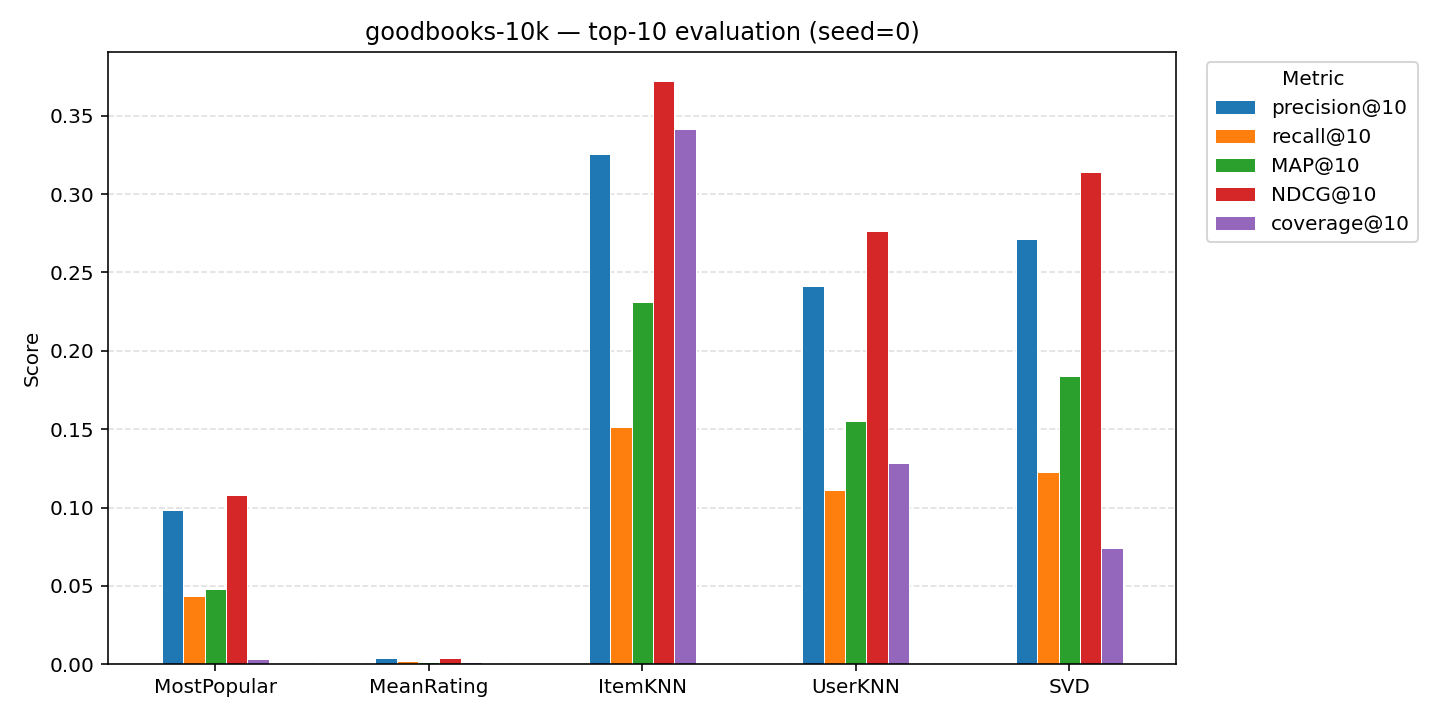
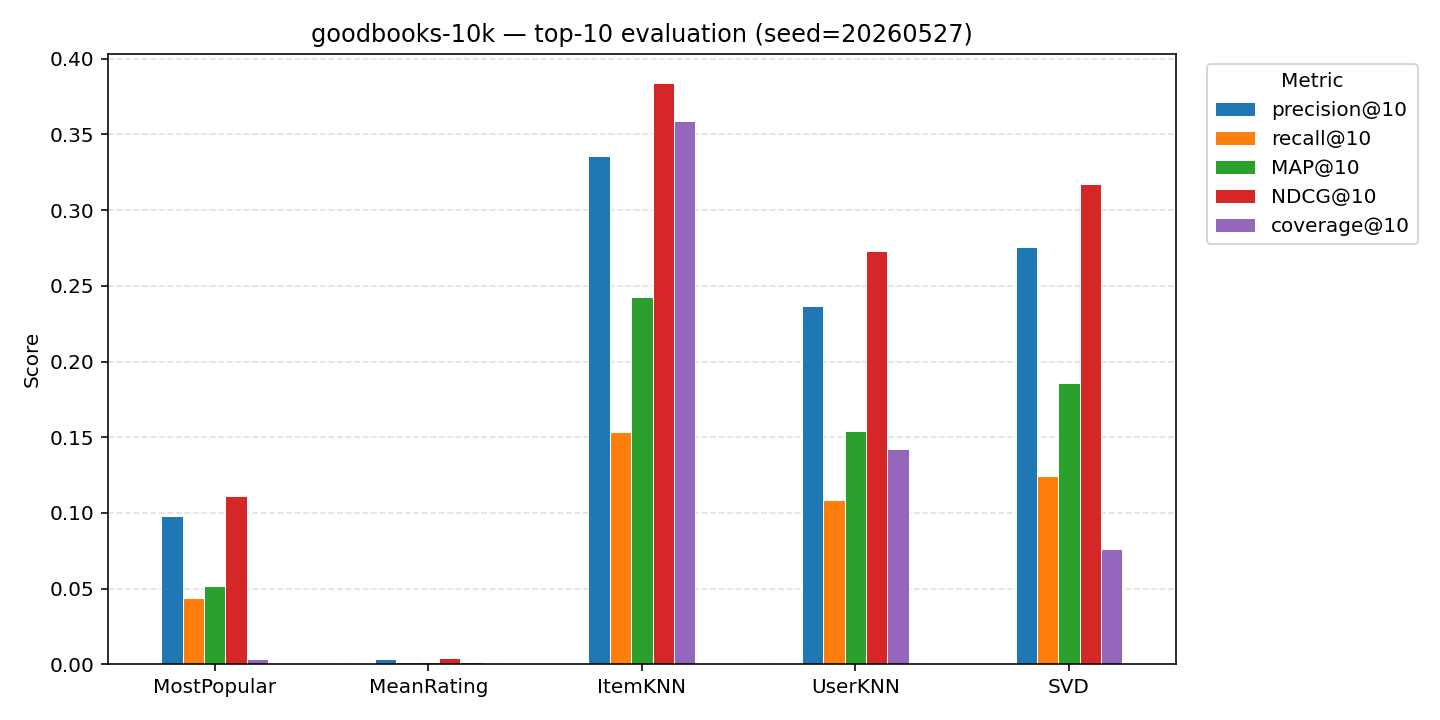
chore: use a deliberate benchmark seed and regenerate results
Bump the benchmark/example seed from 0 to 20260527 (the run date) across both benchmark scripts and the README/quickstart examples, and regenerate both results tables + charts so the committed numbers match the new seed. README tables verified equal to benchmarks/results.md and benchmarks/goodbooks_results.md.

diff --git a/scripts/benchmark_goodbooks.py b/scripts/benchmark_goodbooks.py
@@ -23,7 +23,7 @@ from recommender_systems import SVD, ItemKNN, MeanRating, MostPopular, Recommend
 from recommender_systems.datasets import load_goodbooks_10k
 from scripts._harness import run_benchmark
 
-SEED = 0
+SEED = 20260527
 USER_SAMPLE = 2500
 OUT_DIR = Path(__file__).resolve().parent.parent / "benchmarks"
 

diff --git a/scripts/benchmark.py b/scripts/benchmark.py
@@ -16,7 +16,7 @@ from recommender_systems import SVD, ItemKNN, MeanRating, MostPopular, Recommend
 from recommender_systems.datasets import load_movielens_100k
 from scripts._harness import run_benchmark
 
-SEED = 0
+SEED = 20260527
 OUT_DIR = Path(__file__).resolve().parent.parent / "benchmarks"
 
 

diff --git a/README.md b/README.md
@@ -21,11 +21,11 @@ Top-10 evaluation on **MovieLens 100k** (80/20 seeded split). Reproduce with
 
 |             | precision@10 | recall@10 |  MAP@10 | NDCG@10 | coverage@10 |
 |:------------|-------------:|----------:|--------:|--------:|------------:|
-| MostPopular |       0.1863 |    0.1191 |  0.1104 |  0.2141 |      0.0315 |
-| MeanRating  |       0.0490 |    0.0194 |  0.0140 |  0.0428 |      0.0161 |
-| ItemKNN     |       0.3188 |    0.2010 |  0.2486 |  0.3786 |      0.2866 |
-| UserKNN     |       0.3175 |    0.2123 |  0.2503 |  0.3881 |      0.2134 |
-| SVD         |       0.3016 |    0.2134 |  0.2283 |  0.3675 |      0.2717 |
+| MostPopular |       0.1935 |    0.1165 |  0.1139 |  0.2184 |      0.0321 |
+| MeanRating  |       0.0489 |    0.0211 |  0.0154 |  0.0447 |      0.0166 |
+| ItemKNN     |       0.3240 |    0.2070 |  0.2484 |  0.3833 |      0.2919 |
+| UserKNN     |       0.3199 |    0.2141 |  0.2473 |  0.3856 |      0.2170 |
+| SVD         |       0.3139 |    0.2166 |  0.2351 |  0.3780 |      0.2806 |
 
 See [`benchmarks/results.md`](benchmarks/results.md) for the table regenerated from
 the latest run.
@@ -37,11 +37,11 @@ Reproduce with `python -m scripts.benchmark_goodbooks`.
 
 |             | precision@10 | recall@10 |  MAP@10 | NDCG@10 | coverage@10 |
 |:------------|-------------:|----------:|--------:|--------:|------------:|
-| MostPopular |       0.0985 |    0.0434 |  0.0482 |  0.1080 |      0.0035 |
-| MeanRating  |       0.0042 |    0.0019 |  0.0011 |  0.0040 |      0.0014 |
-| ItemKNN     |       0.3256 |    0.1511 |  0.2314 |  0.3719 |      0.3413 |
-| UserKNN     |       0.2414 |    0.1113 |  0.1552 |  0.2766 |      0.1286 |
-| SVD         |       0.2714 |    0.1229 |  0.1840 |  0.3142 |      0.0739 |
+| MostPopular |       0.0979 |    0.0437 |  0.0517 |  0.1109 |      0.0036 |
+| MeanRating  |       0.0036 |    0.0016 |  0.0014 |  0.0040 |      0.0014 |
+| ItemKNN     |       0.3355 |    0.1534 |  0.2425 |  0.3841 |      0.3589 |
+| UserKNN     |       0.2370 |    0.1085 |  0.1539 |  0.2729 |      0.1423 |
+| SVD         |       0.2756 |    0.1241 |  0.1858 |  0.3173 |      0.0759 |
 
 See [`benchmarks/goodbooks_results.md`](benchmarks/goodbooks_results.md) for the
 freshly-regenerated table.
@@ -70,9 +70,9 @@ from recommender_systems.svd import SVD
 from recommender_systems.metrics import ndcg_at_k, precision_at_k
 
 ratings = load_movielens_100k()
-train, test = split_ratings(ratings, test_size=0.2, random_state=0)
+train, test = split_ratings(ratings, test_size=0.2, random_state=20260527)
 
-model = SVD(n_factors=50, random_state=0).fit(train)
+model = SVD(n_factors=50, random_state=20260527).fit(train)
 
 users = test["user_id"].unique()
 predicted = [model.recommend(u, n=10) for u in users]

diff --git a/benchmarks/goodbooks_results.md b/benchmarks/goodbooks_results.md
@@ -1,13 +1,13 @@
 # goodbooks-10k — top-10 evaluation
 
-Reproduce with `python -m scripts.benchmark_goodbooks` (seed = 0, 80/20 split).
-Subsampled to 2500 users (~279k interactions) so the dense user-user similarity needed by UserKNN fits in memory.
+Reproduce with `python -m scripts.benchmark_goodbooks` (seed = 20260527, 80/20 split).
+Subsampled to 2500 users (~281k interactions) so the dense user-user similarity needed by UserKNN fits in memory.
 
 
 |             |   precision@10 |   recall@10 |   MAP@10 |   NDCG@10 |   coverage@10 |
 |:------------|---------------:|------------:|---------:|----------:|--------------:|
-| MostPopular |         0.0985 |      0.0434 |   0.0482 |    0.1080 |        0.0035 |
-| MeanRating  |         0.0042 |      0.0019 |   0.0011 |    0.0040 |        0.0014 |
-| ItemKNN     |         0.3256 |      0.1511 |   0.2314 |    0.3719 |        0.3413 |
-| UserKNN     |         0.2414 |      0.1113 |   0.1552 |    0.2766 |        0.1286 |
-| SVD         |         0.2714 |      0.1229 |   0.1840 |    0.3142 |        0.0739 |
+| MostPopular |         0.0979 |      0.0437 |   0.0517 |    0.1109 |        0.0036 |
+| MeanRating  |         0.0036 |      0.0016 |   0.0014 |    0.0040 |        0.0014 |
+| ItemKNN     |         0.3355 |      0.1534 |   0.2425 |    0.3841 |        0.3589 |
+| UserKNN     |         0.2370 |      0.1085 |   0.1539 |    0.2729 |        0.1423 |
+| SVD         |         0.2756 |      0.1241 |   0.1858 |    0.3173 |        0.0759 |

diff --git a/benchmarks/results.md b/benchmarks/results.md
@@ -1,11 +1,11 @@
 # MovieLens 100k — top-10 evaluation
 
-Reproduce with `python -m scripts.benchmark` (seed = 0, 80/20 split).
+Reproduce with `python -m scripts.benchmark` (seed = 20260527, 80/20 split).
 
 |             |   precision@10 |   recall@10 |   MAP@10 |   NDCG@10 |   coverage@10 |
 |:------------|---------------:|------------:|---------:|----------:|--------------:|
-| MostPopular |         0.1863 |      0.1191 |   0.1104 |    0.2141 |        0.0315 |
-| MeanRating  |         0.0490 |      0.0194 |   0.0140 |    0.0428 |        0.0161 |
-| ItemKNN     |         0.3188 |      0.2010 |   0.2486 |    0.3786 |        0.2866 |
-| UserKNN     |         0.3175 |      0.2123 |   0.2503 |    0.3881 |        0.2134 |
-| SVD         |         0.3016 |      0.2134 |   0.2283 |    0.3675 |        0.2717 |
+| MostPopular |         0.1935 |      0.1165 |   0.1139 |    0.2184 |        0.0321 |
+| MeanRating  |         0.0489 |      0.0211 |   0.0154 |    0.0447 |        0.0166 |
+| ItemKNN     |         0.3240 |      0.2070 |   0.2484 |    0.3833 |        0.2919 |
+| UserKNN     |         0.3199 |      0.2141 |   0.2473 |    0.3856 |        0.2170 |
+| SVD         |         0.3139 |      0.2166 |   0.2351 |    0.3780 |        0.2806 |

diff --git a/docs/quickstart.md b/docs/quickstart.md
@@ -10,10 +10,10 @@ from recommender_systems.metrics import ndcg_at_k, precision_at_k
 
 # 1. Load and split.
 ratings = load_movielens_100k()
-train, test = split_ratings(ratings, test_size=0.2, random_state=0)
+train, test = split_ratings(ratings, test_size=0.2, random_state=20260527)
 
 # 2. Fit.
-model = SVD(n_factors=50, random_state=0).fit(train)
+model = SVD(n_factors=50, random_state=20260527).fit(train)
 
 # 3. Recommend for the held-out users.
 test_users = test["user_id"].unique()
